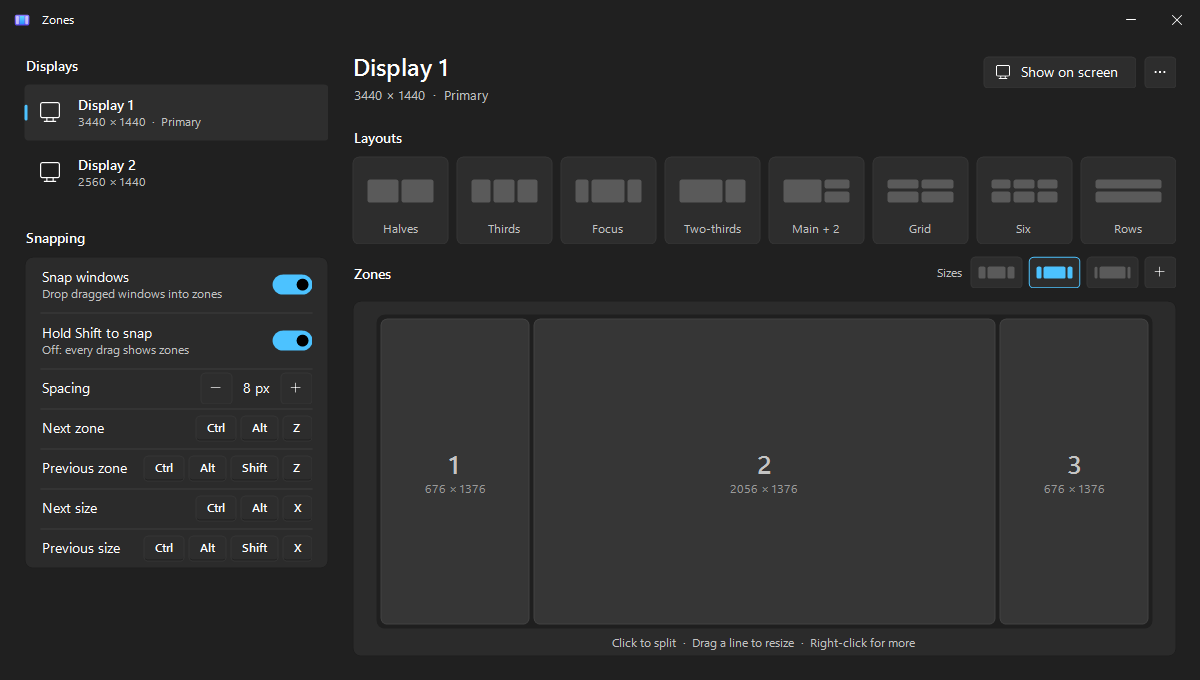
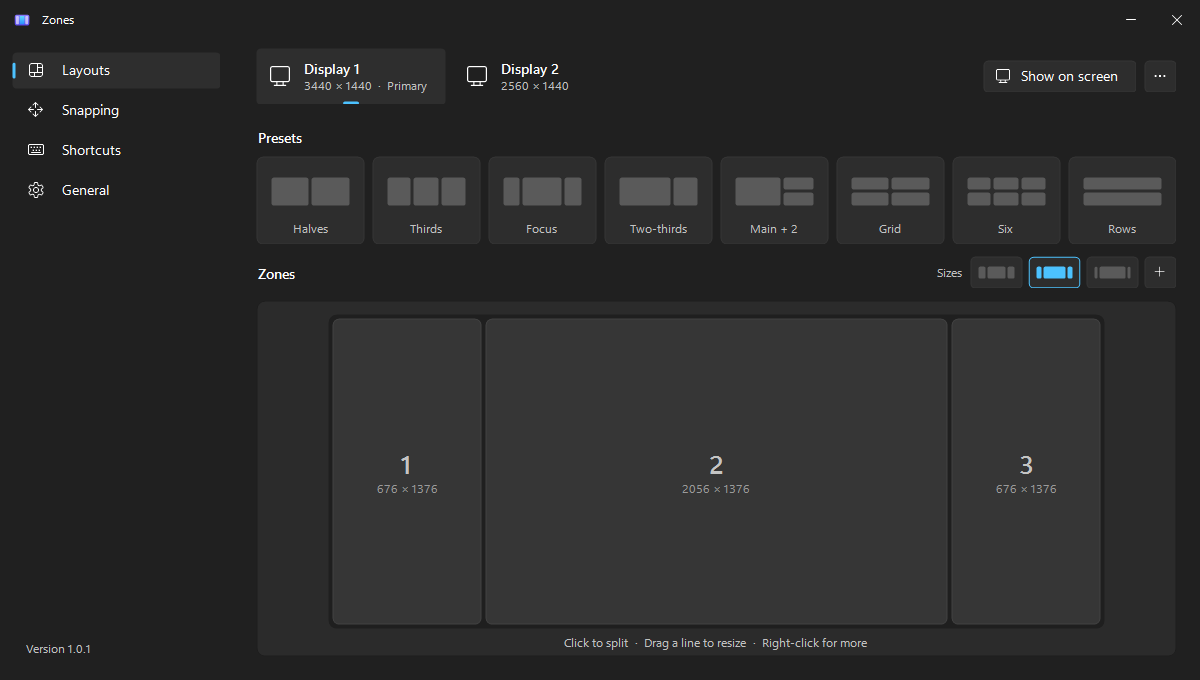
docs: describe the settings menu, refresh screenshots and add 1.0.2 notes

diff --git a/README.md b/README.md
@@ -63,7 +63,7 @@ menu bar on macOS.
 
 <table align="center">
   <tr>
-    <td><img src="docs/settings-dark.png" alt="The settings window in dark mode: Display 1, a 3440 by 1440 ultrawide, on the second of three sizes of a wide centre, with the snapping options and shortcuts on the left" width="400"></td>
+    <td><img src="docs/settings-dark.png" alt="The settings window in dark mode: Display 1, a 3440 by 1440 ultrawide, on the second of three sizes of a wide centre, with the menu of pages on the left" width="400"></td>
     <td><img src="docs/settings-light.png" alt="The same settings window in light mode" width="400"></td>
   </tr>
   <tr>
@@ -74,9 +74,9 @@ menu bar on macOS.
 <p align="center"><sub>The settings window on Windows: an ultrawide with three sizes of a wide centre, the second in use.</sub></p>
 
 <p align="center">
-  <img src="docs/settings-mac.png" alt="The settings window on macOS: the built-in display on Halves, with the snapping options and shortcuts shown in Mac key symbols" width="640">
+  <img src="docs/settings-mac.png" alt="The settings window on macOS: the built-in display on Halves, with the same menu of Layouts, Snapping, Shortcuts and General down the left" width="640">
 </p>
-<p align="center"><sub><b>On macOS</b>, the same window in AppKit, with the Mac's own keys.</sub></p>
+<p align="center"><sub><b>On macOS</b>, the same window and the same pages, with the Mac's own keys.</sub></p>
 
 ## Install
 
@@ -120,7 +120,7 @@ Accessibility. Use the menu bar icon for **Start at Login**.
 | Active window to its previous zone | <kbd>Ctrl</kbd>+<kbd>Alt</kbd>+<kbd>Shift</kbd>+<kbd>Z</kbd> | <kbd>⌃</kbd><kbd>⌥</kbd><kbd>⇧</kbd><kbd>Z</kbd> |
 | Display to its next size | <kbd>Ctrl</kbd>+<kbd>Alt</kbd>+<kbd>X</kbd> | <kbd>⌃</kbd><kbd>⌥</kbd><kbd>X</kbd> |
 | Display to its previous size | <kbd>Ctrl</kbd>+<kbd>Alt</kbd>+<kbd>Shift</kbd>+<kbd>X</kbd> | <kbd>⌃</kbd><kbd>⌥</kbd><kbd>⇧</kbd><kbd>X</kbd> |
-| Open the settings | Click the tray icon | Menu bar icon → **Snap Layouts…** |
+| Open the settings | Click the tray icon | Menu bar icon → **Settings…** |
 
 A window dragged out of a zone gets its own size back. Switching sizes, by
 shortcut, by wheel or in the settings window, moves every window snapped on that
@@ -131,23 +131,27 @@ keys you want, or <kbd>Backspace</kbd> to turn it off.
 
 ## The settings window
 
-Open it from the tray icon on Windows or the menu bar icon on macOS.
+Open it from the tray icon on Windows or the menu bar icon on macOS. A menu
+down the left has four pages, with the version running at its foot.
 
-- **Displays** on the left; pick one and its layout shows on the right, drawn
-  to the display's real proportions with each zone's size in pixels.
-- **Layouts**: click a ready-made one to start from it.
-- **Sizes**: the strip beside "Zones". **+** copies the current size so you can
-  drag its lines somewhere else; click a size to switch to it; right-click to
-  remove one.
-- **Zones**: click to split, <kbd>Shift</kbd>+click to split across, drag a
-  line to resize (it clicks into halves, thirds and quarters on the way unless
-  you hold <kbd>Alt</kbd>/<kbd>⌥</kbd>), right-click to remove a zone.
-- **Show on screen** draws the layout over the real display. The **⋯** menu
-  beside it has **Use on all displays**, which copies the layout, sizes and
-  all, and **Reset this display**, back to the default.
+- **Layouts**: a tab for each display across the top; pick one and its layout
+  shows underneath, drawn to the display's real proportions with each zone's
+  size in pixels.
+  - **Presets**: click a ready-made layout to start from it.
+  - **Sizes**: the strip beside "Zones". **+** copies the current size so you
+    can drag its lines somewhere else; click a size to switch to it;
+    right-click to remove one.
+  - **Zones**: click to split, <kbd>Shift</kbd>+click to split across, drag a
+    line to resize (it clicks into halves, thirds and quarters on the way
+    unless you hold <kbd>Alt</kbd>/<kbd>⌥</kbd>), right-click to remove a zone.
+  - **Show on screen** draws the layout over the real display. The **⋯** menu
+    beside it has **Use on all displays**, which copies the layout, sizes and
+    all, and **Reset this display**, back to the default.
 - **Snapping**: turn snapping off, show zones on every drag instead of only
-  with Shift (Shift then holds them back), the gap around each zone, and the
-  four shortcuts.
+  with Shift (Shift then holds them back), and the gap around each zone.
+- **Shortcuts**: the four shortcuts, each with what it does.
+- **General**: start with Windows (at login on macOS), automatic updates, and
+  the version, with a button to check for a newer one.
 
 Every change is saved as you make it. The window can be resized; the zone
 editor grows with it.
@@ -162,10 +166,11 @@ does not match. Zones then installs it by itself the next time it is idle, not
 in the middle of a drag and not with the settings window open, and restarts in
 a second.
 
-To choose the moment yourself, turn off **Install updates automatically** in
-the tray menu or the menu bar menu. A new release then shows as **Update to
-Zones 1.1.0** in that menu, and as an **Update** button in the settings window,
-and nothing changes until you click one of them.
+To choose the moment yourself, turn off **Auto-update** on the settings
+window's General page (or **Install updates automatically** in the tray menu or
+the menu bar menu). A new release then shows as **Update to Zones 1.1.0** in
+that menu, and as an **Update to 1.1.0** button at the foot of the settings
+window's menu, and nothing changes until you click one of them.
 
 On Windows the running executable is moved aside and the new one swapped in.
 On macOS, Zones.app is replaced in place when it is in Applications, one more

diff --git a/docs/release-notes/1.0.2.md b/docs/release-notes/1.0.2.md
@@ -1,0 +1,10 @@
+The settings window has a menu down the left now, one page for each thing it sets, instead of everything on one crowded screen.
+
+- **Layouts**: a tab for each display across the top, and under it the presets, the sizes and the zone editor, which is wider than before.
+- **Snapping**: snapping on or off, Hold Shift to snap and the spacing, each with a line saying what it does.
+- **Shortcuts**: next and previous zone, next and previous size, each with what it does, and a warning under them if one is taken by another program.
+- **General**: Start with Windows (**Start at Login** on macOS), Auto-update, and the version with a **Check for updates** button.
+- **The version is always in sight** at the foot of the menu, with an **Update to …** button above it as soon as a newer Zones is out.
+- The title bar is back to just the name and the window buttons, and the tray and menu bar item that opens the window is now called **Settings…**.
+
+Zones 1.0.0 and 1.0.1 update themselves to this one. Otherwise download `zones.exe` (Windows) or `Zones-mac.zip` (macOS) below.
